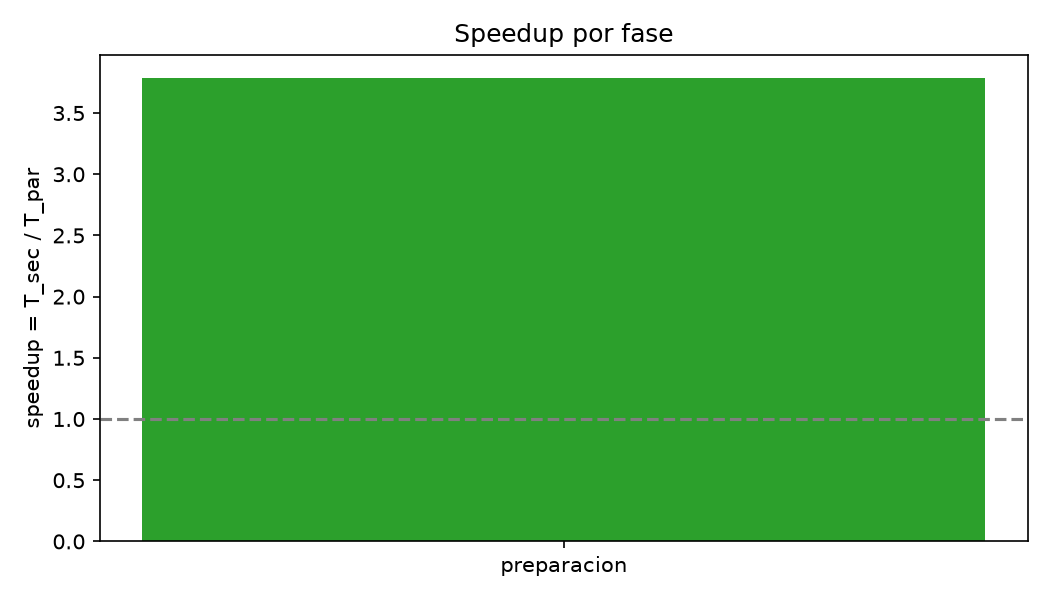
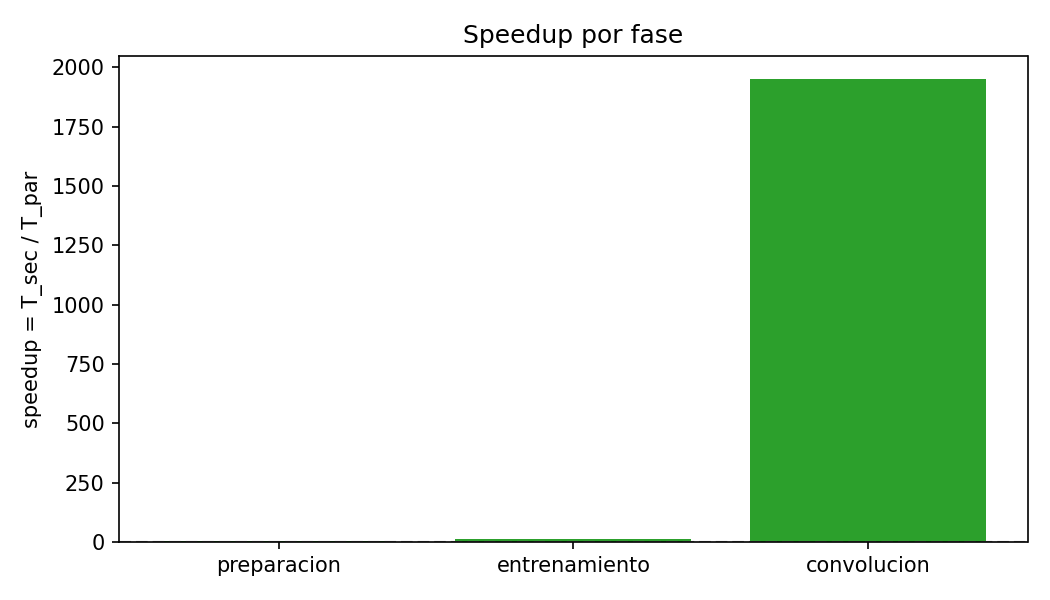
feat: resultados en GPU (RTX 3050 Ti) y guia para Windows nativo
Mediciones de las fases 1 a 3 en Windows nativo, tabla y figuras regeneradas, README con los dos entornos conda e informe con los numeros medidos.

diff --git a/docs/informe.md b/docs/informe.md
@@ -1,6 +1,6 @@
 # Proyecto 3: Mejorando algoritmos con CUDA
 
-Informe (borrador). Todo lo marcado como **[PENDIENTE: ...]** requiere una medición o captura real.
+Informe (borrador). Las mediciones ya están incluidas; lo marcado como **[PENDIENTE: ...]** son las capturas de pantalla y un valor opcional.
 
 ## 1. Análisis de la solución secuencial
 
@@ -52,15 +52,15 @@ Nota: el backward cuesta aproximadamente el doble del forward, por lo que una é
 
 ## 2. Medición secuencial
 
-**Procedimiento.** Cada fase se mide con `time.perf_counter()`, 5 repeticiones con los mismos datos y la misma semilla (123), y se reporta el promedio y la desviación estándar. Los tiempos se guardan en `resultados/<fase>_secuencial.json`. En entrenamiento se fijan 5 épocas para que ambas variantes hagan el mismo trabajo.
+**Procedimiento.** Cada fase se mide con `time.perf_counter()`, con los mismos datos y la misma semilla (123), y se reporta el promedio y la desviación estándar. Preparación y convolución usan 5 repeticiones; entrenamiento usa 3 (valor por defecto de `02_entrenamiento.py`, porque cada corrida en CPU tarda casi 3 minutos). Los tiempos se guardan en `resultados/<fase>_secuencial.json`. En entrenamiento se fijan 5 épocas para que ambas variantes hagan el mismo trabajo.
 
 | Fase | Tiempo por repetición (s) | Promedio (s) | Desv. est. (s) |
 |---|---|---|---|
-| Preparación (17,400 imágenes) | **[PENDIENTE: 5 tiempos]** | **[PENDIENTE]** | **[PENDIENTE]** |
-| Entrenamiento CPU (5 épocas) | **[PENDIENTE: 5 tiempos]** | **[PENDIENTE]** | **[PENDIENTE]** |
-| Convolución NumPy (N = 2000) | **[PENDIENTE: 5 tiempos]** | **[PENDIENTE]** | **[PENDIENTE]** |
+| Preparación (17,400 imágenes) | 16.49, 17.45, 17.05, 16.94, 17.22 | 17.031 | 0.360 |
+| Entrenamiento CPU (5 épocas) | 171.44, 174.50, 165.03 | 170.324 | 4.830 |
+| Convolución NumPy (N = 2000) | 46.19, 46.35, 46.38, 46.20, 45.96 | 46.217 | 0.167 |
 
-Equipo: **[PENDIENTE: CPU, núcleos, RAM, sistema operativo]**.
+Equipo: laptop con AMD Ryzen 5 5600H (6 núcleos físicos, 12 lógicos), 16 GB de RAM, Windows 11 Home (nativo, sin WSL).
 
 **Factores que afectan el rendimiento medido:**
 - E/S de disco: la lectura de 17,400 archivos depende del disco y de si el sistema los tiene en caché (la primera repetición suele ser más lenta).
@@ -99,49 +99,68 @@ hilo (i, y, x) -> salida[i, y, x] = suma de 9 vecinos * filtro
 
 ## 5. Implementación y medición paralela
 
-**Cómo ejecutar:** abrir `notebooks/proyecto3_colab.ipynb` en Google Colab con GPU T4 y correr las celdas en orden (ver README).
+**Cómo ejecutar:** en Windows nativo con dos entornos conda (`p3cuda` para las fases 1, 2 y 4; `p3numba` para la fase 3), siguiendo el README. Alternativas: WSL2/Linux con un solo entorno, o `notebooks/proyecto3_colab.ipynb` en Google Colab con GPU T4.
 
 **Librerías y su rol:**
 - `multiprocessing` (Pool): reparte las imágenes entre los núcleos de la CPU (fase 1).
-- TensorFlow + CUDA + cuDNN: construye la CNN y la ejecuta en `/CPU:0` o `/GPU:0` (fase 2).
-- Numba CUDA: kernel de convolución escrito a mano con control explícito de hilos, bloques y transferencias (fase 3).
+- TensorFlow 2.10.1 + CUDA 11.2 + cuDNN 8.1: construye la CNN y la ejecuta en `/CPU:0` o `/GPU:0` (fase 2). Es la última versión de TensorFlow con GPU en Windows nativo.
+- Numba CUDA (`numba-cuda` 0.30.4 con librerías de CUDA 12): kernel de convolución escrito a mano con control explícito de hilos, bloques y transferencias (fase 3). Va en un entorno aparte porque el Numba compatible con TensorFlow 2.10 falla con el driver NVIDIA actual.
 - NumPy, Pillow, matplotlib: datos, lectura de imágenes y gráficas.
 
 | Fase | Tiempo por repetición (s) | Promedio (s) | Desv. est. (s) |
 |---|---|---|---|
-| Preparación, Pool de **[PENDIENTE: n núcleos]** procesos | **[PENDIENTE]** | **[PENDIENTE]** | **[PENDIENTE]** |
-| Entrenamiento GPU (5 épocas) | **[PENDIENTE]** | **[PENDIENTE]** | **[PENDIENTE]** |
-| Convolución Numba CUDA (N = 2000) | **[PENDIENTE]** | **[PENDIENTE]** | **[PENDIENTE]** |
+| Preparación, Pool de 12 procesos | 4.20, 4.60, 4.50, 4.53, 4.50 | 4.466 | 0.155 |
+| Entrenamiento GPU (5 épocas) | 16.37, 16.13, 15.99 | 16.162 | 0.193 |
+| Convolución Numba CUDA (N = 2000) | 0.0230, 0.0218, 0.0238, 0.0265, 0.0235 | 0.0237 | 0.002 |
 
-| Convolución CUDA | Tiempo (s) |
+| Convolución CUDA | Tiempo promedio (s) |
 |---|---|
-| Transferencia CPU -> GPU | **[PENDIENTE]** |
-| Kernel | **[PENDIENTE]** |
-| Transferencia GPU -> CPU | **[PENDIENTE]** |
+| Transferencia CPU -> GPU | 0.0091 |
+| Kernel | 0.0059 |
+| Transferencia GPU -> CPU | 0.0087 |
 
-GPU usada: **[PENDIENTE: modelo, VRAM, versión de CUDA según `nvidia-smi`]**. Accuracy de validación CPU vs GPU: **[PENDIENTE]**.
+La salida del kernel coincide con la versión secuencial (`np.allclose`, atol = 1e-5).
+
+GPU usada: NVIDIA GeForce RTX 3050 Ti Laptop GPU, 4 GB de VRAM, driver 621.01 (`nvidia-smi` reporta CUDA 13.5). Durante el entrenamiento en GPU, `resultados/nvidia_smi_log.csv` registra picos de 89 % de utilización y 3.8 GB de memoria usada (incluye lo que ya ocupaba el escritorio, ≈1.2 GB). Accuracy de validación tras 5 épocas (última repetición): 0.8793 en CPU y 0.8977 en GPU; la diferencia es la variación normal entre corridas, porque las operaciones de cuDNN no son deterministas.
 
 ## 6. Análisis y conclusiones
 
-**Tabla comparativa:** **[PENDIENTE: pegar `resultados/tabla_comparativa.md`]**. Figuras en `resultados/figuras/` (`tiempos_por_fase.png`, `speedup_por_fase.png`, `desglose_gpu.png`): **[PENDIENTE: insertar]**.
+**Tabla comparativa** (`resultados/tabla_comparativa.md`):
+
+| Fase | T secuencial (s) | desv | T paralelo (s) | desv | Speedup |
+|---|---|---|---|---|---|
+| preparacion | 17.031 | 0.360 | 4.466 | 0.155 | 3.81x |
+| entrenamiento | 170.324 | 4.830 | 16.162 | 0.193 | 10.54x |
+| convolucion | 46.217 | 0.167 | 0.024 | 0.002 | 1950.09x |
+
+![Tiempo por fase](../resultados/figuras/tiempos_por_fase.png)
+
+![Speedup por fase](../resultados/figuras/speedup_por_fase.png)
+
+![Desglose GPU](../resultados/figuras/desglose_gpu.png)
+
+Lectura de los resultados:
+- **Preparación (3.81x con 12 procesos):** lejos de 12x porque el equipo tiene 6 núcleos físicos (los otros 6 son SMT), y porque crear los procesos y devolver los arreglos al proceso padre es trabajo secuencial.
+- **Entrenamiento (10.54x):** la GPU baja cada época de ≈34 s a ≈3 s. El speedup no es mayor porque el modelo es pequeño y el armado de lotes y el bucle de Keras siguen en la CPU.
+- **Convolución (1950x):** la línea base son bucles de Python puro, lentos a propósito, así que la cifra mide tanto el paralelismo como el paso de código interpretado a código compilado. Del tiempo en GPU (23.7 ms), solo 5.9 ms son el kernel; las dos transferencias suman 17.8 ms (75 %). Contando solo el kernel el speedup es ≈7800x.
 
 Speedup: **S = T_secuencial / T_paralelo**. Un valor mayor a 1 indica que la versión paralela es más rápida.
 
 **(a) ¿Por qué procesar imágenes/archivos en varios núcleos de CPU y delegar solo la matemática de la red a la GPU?** Preparar una imagen es leer un archivo, decodificar JPEG y reescalar: mucha E/S y lógica de control, con tareas independientes y de duración irregular. Eso se reparte bien entre unos pocos núcleos potentes de CPU, y una GPU no tiene acceso directo al sistema de archivos ni es eficiente decodificando JPEG. En cambio, la convolución y las multiplicaciones de matrices son la misma operación aritmética sobre millones de datos, que es lo que una GPU hace mejor. Cada procesador se usa para lo que mejor hace, y los tensores ya preparados se envían a la GPU una sola vez.
 
-**(b) ¿Cómo redujo o cambió CUDA el tiempo de procesamiento?** Reducción medida: **[PENDIENTE: speedup de entrenamiento y de convolución]**. Mecanismo: en lugar de calcular una posición de salida tras otra, la GPU lanza miles de hilos que calculan posiciones distintas a la vez, y su ancho de banda de memoria y cantidad de unidades aritméticas son mucho mayores que los de la CPU. En el entrenamiento, cuDNN además usa kernels optimizados. El costo es que aparecen tiempos nuevos (transferencias host-device, lanzamiento) que la versión secuencial no tiene.
+**(b) ¿Cómo redujo o cambió CUDA el tiempo de procesamiento?** Reducción medida: el entrenamiento pasó de 170.3 s a 16.2 s (10.54x) y la convolución de 2000 imágenes de 46.2 s a 0.024 s (1950x, incluyendo transferencias). Mecanismo: en lugar de calcular una posición de salida tras otra, la GPU lanza miles de hilos que calculan posiciones distintas a la vez, y su ancho de banda de memoria y cantidad de unidades aritméticas son mucho mayores que los de la CPU. En el entrenamiento, cuDNN además usa kernels optimizados. El costo es que aparecen tiempos nuevos (transferencias host-device, lanzamiento) que la versión secuencial no tiene.
 
 **(c) Factores que justifican o limitan el uso de CUDA:**
-- Sobrecosto de transferencia: copiar datos por PCIe puede costar más que el cálculo si el trabajo por dato es poco.
+- Sobrecosto de transferencia: copiar datos por PCIe puede costar más que el cálculo si el trabajo por dato es poco. En la fase 3 las transferencias fueron el 75 % del tiempo en GPU (17.8 ms de 23.7 ms).
 - Lotes o problemas pequeños: no ocupan la GPU, y el sobrecosto fijo domina.
 - Ley de Amdahl: la parte secuencial (carga de datos, bucle de épocas) acota el speedup total: S <= 1 / ((1 - p) + p/s), con p la fracción paralelizable y s la aceleración de esa fracción.
-- VRAM limitada: el conjunto de datos y el modelo deben caber en memoria de la GPU (o procesarse por lotes).
-- Disponibilidad de hardware: requiere una GPU NVIDIA y drivers/toolkit compatibles; en Colab el acceso es limitado.
+- VRAM limitada: el conjunto de datos y el modelo deben caber en memoria de la GPU (o procesarse por lotes). En la fase 2 la GPU de 4 GB llegó a 3.8 GB usados.
+- Disponibilidad de hardware: requiere una GPU NVIDIA y drivers/toolkit compatibles; en Colab el acceso es limitado. En este equipo la compatibilidad de versiones obligó a usar dos entornos (TensorFlow 2.10 con CUDA 11.2 y Numba con CUDA 12).
 - Calentamiento/JIT: la primera llamada incluye inicialización de CUDA y compilación de Numba; conviene excluirla o reportarla aparte. **[PENDIENTE: valor medido de la primera ejecución si se mide]**.
 
 ### Capturas requeridas por la rúbrica
 
-- [ ] Uso de los núcleos de CPU durante la fase 1 (panel de recursos de Colab o `top`). **[PENDIENTE: captura]**
+- [ ] Uso de los núcleos de CPU durante la fase 1 (Administrador de tareas > Rendimiento > CPU, vista de procesadores lógicos). **[PENDIENTE: captura]**
 - [ ] `nvidia-smi` durante la fase 2 mostrando la GPU en uso (y/o `resultados/nvidia_smi_log.csv`). **[PENDIENTE: captura]**
 - [ ] `nvidia-smi` inicial con el modelo de GPU. **[PENDIENTE: captura]**
 - [ ] Salida de cada script con los tiempos. **[PENDIENTE: captura]**

diff --git a/README.md b/README.md
@@ -27,9 +27,51 @@ python src/04_comparacion.py
 
 Las fases con GPU (2 y 3) requieren una GPU NVIDIA con CUDA.
 
-## Ejecución en una laptop con GPU NVIDIA (ej. RTX 3050 Ti)
+## Ejecución en Windows nativo con GPU NVIDIA (configuración usada para los resultados)
 
-En Windows hay que usar **WSL2**: TensorFlow >= 2.11 no usa la GPU en Windows nativo.
+Los resultados de `resultados/` se midieron así en una laptop con Ryzen 5 5600H (12 núcleos lógicos) y
+RTX 3050 Ti (4 GB), sin WSL. Solo hace falta el driver de NVIDIA y Miniconda; las librerías CUDA llegan por conda/pip.
+
+Se usan **dos entornos** porque TensorFlow y Numba no pueden compartir uno en Windows:
+
+- TensorFlow 2.10 es la última versión con GPU en Windows nativo y exige CUDA 11.2 / cuDNN 8.1 y NumPy < 2.
+- El Numba compatible con ese entorno (0.57) falla con drivers NVIDIA recientes (`access violation` al crear
+  el contexto CUDA), así que la fase 3 usa el paquete `numba-cuda` con las librerías de CUDA 12.
+
+```
+conda create -y -n p3cuda -c conda-forge python=3.10 cudatoolkit=11.2 cudnn=8.1 pip
+conda run -n p3cuda pip install tensorflow==2.10.1 numpy==1.23.5 pillow matplotlib pandas kagglehub
+
+conda create -y -n p3numba -c conda-forge python=3.11 pip
+conda run -n p3numba pip install "numba-cuda[cu12]" numpy cuda-core==1.2.2
+```
+
+`cuda-core` se fija en 1.2.2 porque el Control de aplicaciones de Windows bloqueó una DLL de la 1.3.0; si no
+hay ese bloqueo, se puede omitir el pin.
+
+Dataset (≈1 GB, queda en `%USERPROFILE%\.cache\kagglehub`) y ejecución, en PowerShell:
+
+```
+conda activate p3cuda
+python -c "import kagglehub; print(kagglehub.dataset_download('grassknoted/asl-alphabet'))"
+$env:ASL_DATA = "<ruta impresa>\asl_alphabet_train\asl_alphabet_train"   # carpeta con A, B, ..., space
+python src/00_verificar_hardware.py   # debe listar la GPU en nvidia-smi y TensorFlow
+python src/01_preparacion.py
+python src/02_entrenamiento.py        # escribe resultados/nvidia_smi_log.csv
+
+conda activate p3numba
+python src/03_kernel_cuda.py
+
+conda activate p3cuda
+python src/04_comparacion.py
+```
+
+En `p3cuda` no se instala Numba, así que `00_verificar_hardware.py` reportará `[FALLO] Numba CUDA` ahí; es
+esperado, Numba se verifica al correr la fase 3 en `p3numba`.
+
+## Alternativa: WSL2 o Linux nativo (un solo entorno, TensorFlow actual)
+
+En Windows con WSL2 se puede usar la última versión de TensorFlow en un único entorno.
 En Linux nativo se salta el paso 1.
 
 1. Driver de NVIDIA actualizado en Windows, luego en PowerShell (admin): `wsl --install` y reiniciar.
@@ -69,4 +111,12 @@ El notebook descarga el dataset de Kaggle (`grassknoted/asl-alphabet`) y define 
 - `resultados/<fase>_<variante>.json`: tiempos por repetición y promedio
 - `resultados/tabla_comparativa.md`: tabla secuencial vs paralelo con speedup
 - `resultados/figuras/`: gráficas de tiempos, speedup y desglose transferencia/kernel
-- `resultados/nvidia_smi_log.csv`: utilización de GPU durante el entrenamiento (Colab)
+- `resultados/nvidia_smi_log.csv`: utilización de GPU durante el entrenamiento
+
+Medidos en Windows nativo (Ryzen 5 5600H, RTX 3050 Ti Laptop 4 GB):
+
+| Fase | T secuencial (s) | T paralelo (s) | Speedup |
+|---|---|---|---|
+| preparacion (1 vs 12 procesos) | 17.031 | 4.466 | 3.81x |
+| entrenamiento (CPU vs GPU, 5 épocas) | 170.324 | 16.162 | 10.54x |
+| convolucion (bucles Python vs kernel CUDA, N = 2000) | 46.217 | 0.024 | 1950x |

diff --git a/resultados/tabla_comparativa.md b/resultados/tabla_comparativa.md
@@ -1,5 +1,5 @@
 | Fase | T secuencial (s) | desv | T paralelo (s) | desv | Speedup |
 |---|---|---|---|---|---|
-| preparacion | 7.126 | 0.071 | 1.881 | 0.034 | 3.79x |
-| entrenamiento | pendiente | - | pendiente | - | - |
-| convolucion | pendiente | - | pendiente | - | - |
+| preparacion | 17.031 | 0.360 | 4.466 | 0.155 | 3.81x |
+| entrenamiento | 170.324 | 4.830 | 16.162 | 0.193 | 10.54x |
+| convolucion | 46.217 | 0.167 | 0.024 | 0.002 | 1950.09x |
